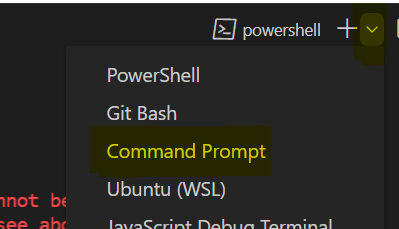
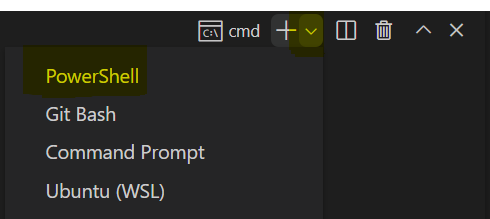
Fixed for Powershell

diff --git a/5_decentralized_exchange/README.md b/5_decentralized_exchange/README.md
@@ -1,16 +1,18 @@
 # Decentralized Exchange
 In this example, we will mix everything we just learned to make a more concrete blueprint. This blueprint represents an automated marked maker (AMM) based decentralized exchange. People are able to provide and withdraw liquidity, and swap tokens.
 
-## How to run (Linux, Mac)
-We will show how you can use the transaction manifest to call multiple components in the same transaction. For this example, we will build a transaction that will first buy a gumball from our gumball machine, then exchange that gumball for some BTC on RadiSwap.
+## Setting up the environment
+We will show how you can use the transaction manifest to call multiple components in the same transaction. For this example, we will build a transaction that will first buy a gumball from our gumball machine, then exchange that gumball for some BTC on RadiSwap. You can run this command to setup the gumball machine and radiswap components:
 
-1. Run `source setup_composability.sh`. This will do a general setup and instantiate the gumball machine along with the Radiswap component to prepare your environment 
-2. Run the transaction manifest: `resim run composability_example.rtm`
+### Linux, Mac
+```bash
+source setup_composability.sh
+```
 
----
+### Windows (PowerShell)
+```powershell
+. .\setup_composability.ps1
+```
 
-## How to run (Windows)
-We will show how you can use the transaction manifest to call multiple components in the same transaction. For this example, we will build a transaction that will first buy a gumball from our gumball machine, then exchange that gumball for some BTC on RadiSwap.
-
-1. Run `.\setup_composability.bat`. This will do a general setup and instantiate the gumball machine along with the Radiswap component to prepare your environment 
-2. Run the transaction manifest: `resim run composability_example.rtm`
+## How to run
+1. Run the transaction manifest: `resim run composability_example.rtm`

diff --git a/README.md b/README.md
@@ -13,13 +13,15 @@ This tutorial will teach you the basics of Scrypto, the smart contract programmi
 Before running the examples, you will need to install the [Scrypto toolchain](https://docs.radixdlt.com/main/scrypto/getting-started/install-scrypto.html) and an IDE that supports Rust. We recommend using [VS Code](https://code.visualstudio.com/) with the [rust-analyzer extension](https://marketplace.visualstudio.com/items?itemName=rust-lang.rust-analyzer).
 
 ## Running on Windows
-If you are testing the examples on Windows, make sure to open a **Command Prompt** terminal in VSCode by selecting in the menus: Terminal > New Terminal, and then making sure that this is a command Prompt terminal by looking at the top right: 
+If you are testing the examples on Windows, make sure to open a **PowerShell** terminal in VSCode by selecting in the menus: Terminal > New Terminal, and then making sure that this is a PowerShell terminal by looking at the top right: 
 
 ![](images/terminal_windows_cmd.png)
 
-If you see something else instead of `cmd`, click on the arrow and then `Command Prompt`:
+If you see something other than `powershell`, click on the arrow and then `PowerShell`:
 
 ![](images/terminal_windows_powershell.png)
+
+Finally, to run our `ps1` scripts, you need to allow PowerShell to run external script by running this command: `Set-ExecutionPolicy -ExecutionPolicy RemoteSigned -Scope Process`
 
 ## Getting syntax highlighting in TX manifests
 To enable syntax highlighting in the transaction manifest files you can right-click the `rtm_color.vsix` file and select `Install extension VSIX`.

diff --git a/3_bored_gumball_club_nfts/README.md b/3_bored_gumball_club_nfts/README.md
@@ -9,12 +9,12 @@ Throughout the following steps, addresses will be generated for the account, com
 source var.sh
 ```
 
-### Windows (Command Prompt)
+### Windows (PowerShell)
 ```bash
-.\var.bat
+. .\var.ps1
 ```
 
-## How to run (Linux, Mac)
+## How to run
 1. Reset your environment: `resim reset`
 1. Create a new account: `resim new-account`
 1. Build and deploy the blueprint on the local ledger: `resim publish .`
@@ -24,14 +24,3 @@ source var.sh
 1. Buy a random one: `resim call-method $component buy_random 15,$xrd`
 1. One of the NFTs should now be in your account: `resim show $account`
 1. Buy a specific one: `resim call-method $component buy_specific 30,$xrd 0000000000000003`
-
-## How to run (Windows)
-1. Reset your environment: `resim reset`
-1. Create a new account: `resim new-account`
-1. Build and deploy the blueprint on the local ledger: `resim publish .`
-1. Call the `instantiate_club` function to instantiate a component with price for random NFTs of 15 XRD and a price for specific NFTs of 30 XRD: `resim call-function %package% BoredGumballClub instantiate_club 15 30`
-1. By presenting the admin badge, mint three NFTs with different attributes: `resim run mint_initial_nfts.rtm`
-1. See the available NFTs stored on the component: `resim show %component%`
-1. Buy a random one: `resim call-method %component% buy_random 15,%xrd%`
-1. One of the NFTs should now be in your account: `resim show %account%`
-1. Buy a specific one: `resim call-method %component% buy_specific 30,%xrd% 0000000000000003`

diff --git a/extra/gumball_machine_auth/README.md b/extra/gumball_machine_auth/README.md
@@ -9,25 +9,16 @@ Throughout the following steps, addresses will be generated for the account, com
 source var.sh
 ```
 
-### Windows (Command Prompt)
+### Windows (PowerShell)
 ```bash
-.\var.sh
+. .\var.ps1
 ```
 
-## How to run (Linux, Mac)
+## How to run
 1. Reset your environment: `resim reset`
 1. Create a new account: `resim new-account`
 1. Build and deploy the blueprint on the local ledger: `resim publish .`
 1. Call the `instantiate_machine` method to instantiate a component with a gumball price of 25 XRD: `resim call-function $package GumballMachine instantiate_machine 25`
 1. Call the `buy_gumball` method on the component multiple times: `resim call-method $component buy_gumball 25,$xrd`
 1. See the amount of XRD stored on the component: `resim show $component`
-1. Withdraw the stored XRD by running this transaction manifest: `resim run withdraw_xrd.rtm`
-
-## How to run (Windows)
-1. Reset your environment: `resim reset`
-1. Create a new account: `resim new-account`
-1. Build and deploy the blueprint on the local ledger: `resim publish .`
-1. Call the `instantiate_machine` method to instantiate a component with a gumball price of 25 XRD: `resim call-function %package% GumballMachine instantiate_machine 25`
-1. Call the `buy_gumball` method on the component multiple times: `resim call-method %component% buy_gumball 25,%xrd%`
-1. See the amount of XRD stored on the component: `resim show %component%`
 1. Withdraw the stored XRD by running this transaction manifest: `resim run withdraw_xrd.rtm`

diff --git a/2_gumball_machine/README.md b/2_gumball_machine/README.md
@@ -9,23 +9,15 @@ Throughout the following steps, addresses will be generated for the account, com
 source var.sh
 ```
 
-### Windows (Command prompt)
-```bash
-.\var.bat
+### Windows (PowerShell)
+```powershell
+. .\var.ps1
 ```
 
-## How to run (Linux, Mac)
+## How to run
 1. Reset your environment: `resim reset`
 1. Create a new account: `resim new-account`
 1. Build and deploy the blueprint on the local ledger: `resim publish .`
 1. Call the `instantiate_machine` function to instantiate a component with a gumball price of 25: `resim call-function $package GumballMachine instantiate_machine 25`
 1. Call the `buy_gumball` method by sending 25 XRD to it: `resim call-method $component buy_gumball 25,$xrd`
 1. Verify that you have received a gumball: `resim show $account`
-
-## How to run (Windows)
-1. Reset your environment: `resim reset`
-1. Create a new account: `resim new-account`
-1. Build and deploy the blueprint on the local ledger: `resim publish .`
-1. Call the `instantiate_machine` function to instantiate a component with a gumball price of 25: `resim call-function %package% GumballMachine instantiate_machine 25`
-1. Call the `buy_gumball` method by sending 25 XRD to it: `resim call-method %component% buy_gumball 25,%xrd%`
-1. Verify that you have received a gumball: `resim show %account%`

diff --git a/1_hello_world/README.md b/1_hello_world/README.md
@@ -9,23 +9,15 @@ Throughout the following steps, addresses will be generated for the account, com
 source var.sh
 ```
 
-### Windows (command prompt)
-```bash
-.\var.bat
+### Windows (PowerShell)
+```powershell
+. .\var.ps1
 ```
 
-## How to run (Linux, Mac)
+## How to run
 1. Reset your environment: `resim reset`
 1. Create a new account: `resim new-account`
 1. Build and deploy the blueprint on the local ledger: `resim publish .`
 1. Call the `instantiate_hello` function to instantiate a component: `resim call-function $package Hello instantiate_hello`
 1. Call the `free_token` method on the component: `resim call-method $component free_token`
 1. Verify that you received a token by running `resim show $account`
-
-## How to run (Windows)
-1. Reset your environment: `resim reset`
-1. Create a new account: `resim new-account`
-1. Build and deploy the blueprint on the local ledger: `resim publish .`
-1. Call the `instantiate_hello` function to instantiate a component: `resim call-function %package% Hello instantiate_hello`
-1. Call the `free_token` method on the component: `resim call-method %component% free_token`
-1. Verify that you received a token by running `resim show %account%`

diff --git a/4_event_ticket_system/README.md b/4_event_ticket_system/README.md
@@ -9,12 +9,12 @@ Throughout the following steps, addresses will be generated for the account, com
 source var.sh
 ```
 
-### Windows (Command Prompt)
-```bash
-.\var.bat
+### Windows (PowerShell)
+```powershell
+. .\var.ps1
 ```
 
-## How to run (Linux, Mac)
+## How to run
 1. Reset your environment: `resim reset`
 1. Create a new account: `resim new-account`
 1. Build and deploy the blueprint on the local ledger: `resim publish .`
@@ -36,8 +36,3 @@ source var.sh
 1. Increase the current epoch to 200: `resim set-current-epoch 200`
 1. Call the `enter_event` method again
 1. Try to call the same method again, you should see an error because you already used the ticket!
-
-## How to run (Windows)
-1. Reset your environment: `resim reset`
-1. Create a new account: `resim new-account`
-1. Build and deploy the blueprint on the local ledger: `resim publish .`
